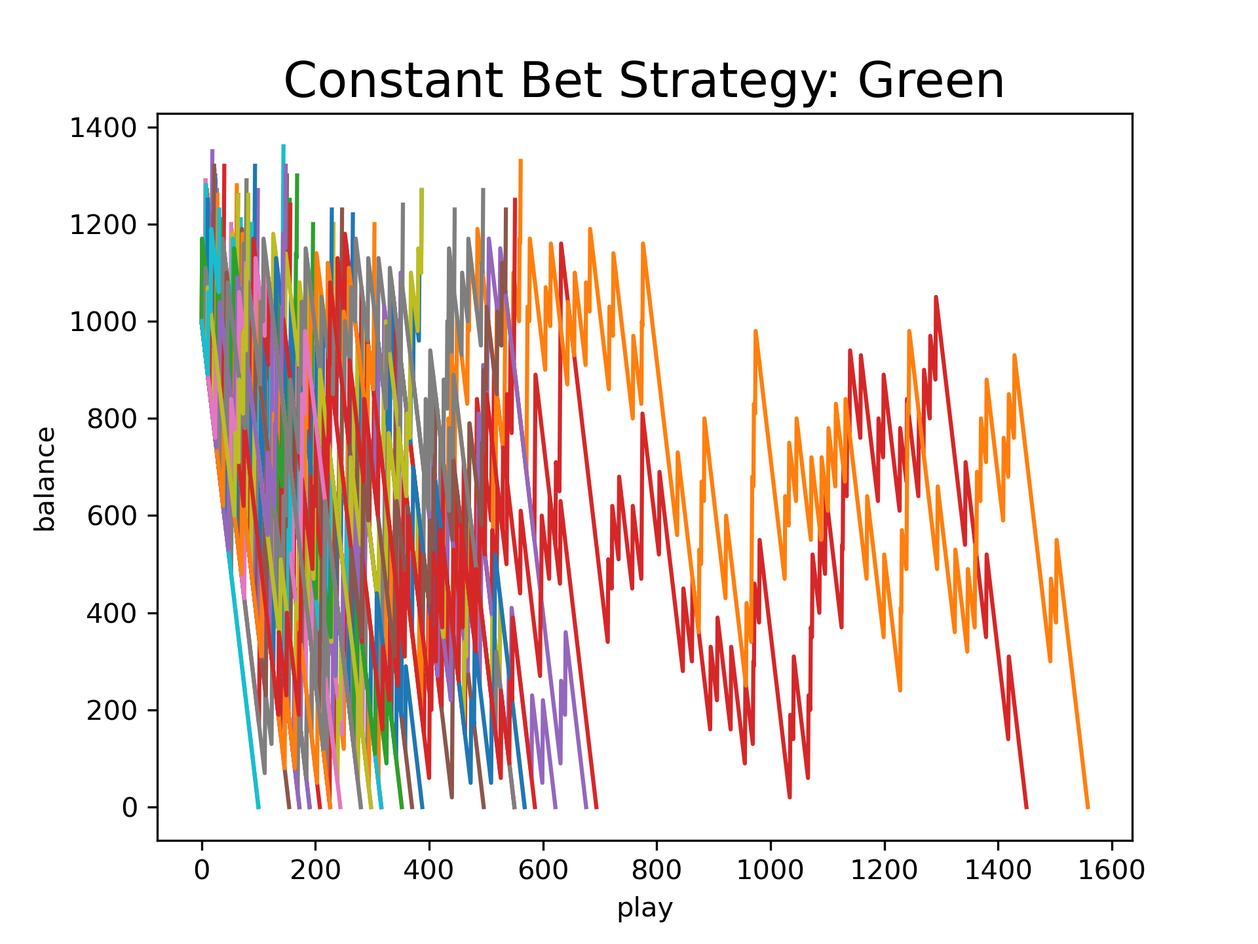
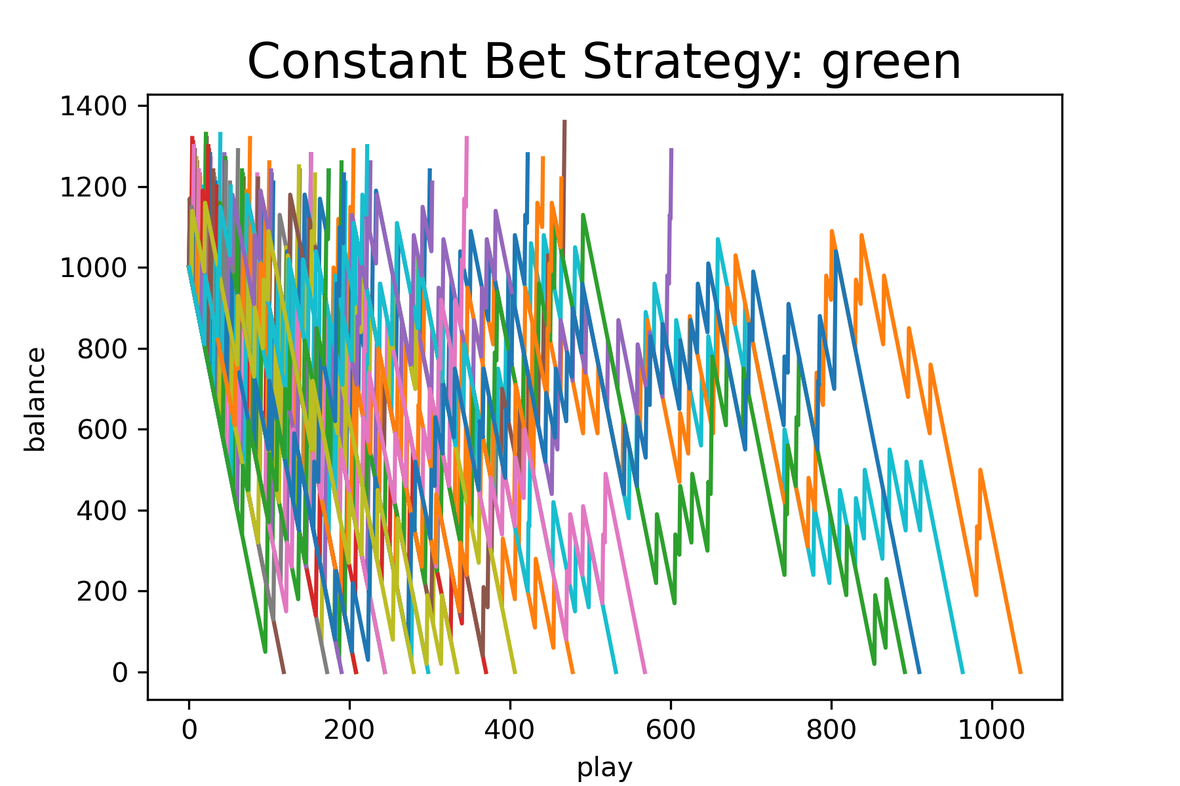
Chapter 9 revision

diff --git a/CSBook/chapters/Ch09/Ch09_StochasticSimulations.html b/CSBook/chapters/Ch09/Ch09_StochasticSimulations.html
@@ -1570,13 +1570,13 @@ ENDFUNCTION</code></pre>
         ELSE
             balance = balance - bet_amount
         ENDIF
-    IF bet_type == 'red'
+    ELIF bet_type == 'red'
         IF spin_color == 'red'
             balance = balance + bet_amount*bet_types['red']
         ELSE
             balance = balance - bet_amount
         ENDIF
-    IF bet_type == 'green'
+    ELIF bet_type == 'green'
         IF spin_color == 'green'
             balance = balance + bet_amount*bet_types['green']
         ELSE
@@ -1613,93 +1613,94 @@ ENDFUNCTION</code></pre>
 <div class="sourceCode" id="fig-Figure9_RouletteWithConstantBetCode"><pre class="sourceCode python code-with-copy"><code class="sourceCode python"><span id="fig-Figure9_RouletteWithConstantBetCode-1"><a href="#fig-Figure9_RouletteWithConstantBetCode-1" aria-hidden="true" tabindex="-1"></a><span class="co">"""</span></span>
 <span id="fig-Figure9_RouletteWithConstantBetCode-2"><a href="#fig-Figure9_RouletteWithConstantBetCode-2" aria-hidden="true" tabindex="-1"></a><span class="co">Program: American Roulette with Constant Bet</span></span>
 <span id="fig-Figure9_RouletteWithConstantBetCode-3"><a href="#fig-Figure9_RouletteWithConstantBetCode-3" aria-hidden="true" tabindex="-1"></a><span class="co">Author: C.D. Wentworth</span></span>
-<span id="fig-Figure9_RouletteWithConstantBetCode-4"><a href="#fig-Figure9_RouletteWithConstantBetCode-4" aria-hidden="true" tabindex="-1"></a><span class="co">Version: 9.1.2022.1</span></span>
+<span id="fig-Figure9_RouletteWithConstantBetCode-4"><a href="#fig-Figure9_RouletteWithConstantBetCode-4" aria-hidden="true" tabindex="-1"></a><span class="co">Version: 4.22.2025.1</span></span>
 <span id="fig-Figure9_RouletteWithConstantBetCode-5"><a href="#fig-Figure9_RouletteWithConstantBetCode-5" aria-hidden="true" tabindex="-1"></a><span class="co">Summary:</span></span>
 <span id="fig-Figure9_RouletteWithConstantBetCode-6"><a href="#fig-Figure9_RouletteWithConstantBetCode-6" aria-hidden="true" tabindex="-1"></a><span class="co">        This program performs a Monte Carlo simulation of the</span></span>
 <span id="fig-Figure9_RouletteWithConstantBetCode-7"><a href="#fig-Figure9_RouletteWithConstantBetCode-7" aria-hidden="true" tabindex="-1"></a><span class="co">        American roulette game using a constant bet strategy based</span></span>
 <span id="fig-Figure9_RouletteWithConstantBetCode-8"><a href="#fig-Figure9_RouletteWithConstantBetCode-8" aria-hidden="true" tabindex="-1"></a><span class="co">        either color choice or specific value choice.</span></span>
 <span id="fig-Figure9_RouletteWithConstantBetCode-9"><a href="#fig-Figure9_RouletteWithConstantBetCode-9" aria-hidden="true" tabindex="-1"></a><span class="co">History:</span></span>
-<span id="fig-Figure9_RouletteWithConstantBetCode-10"><a href="#fig-Figure9_RouletteWithConstantBetCode-10" aria-hidden="true" tabindex="-1"></a><span class="co">    9.1.2022.1: base</span></span>
-<span id="fig-Figure9_RouletteWithConstantBetCode-11"><a href="#fig-Figure9_RouletteWithConstantBetCode-11" aria-hidden="true" tabindex="-1"></a><span class="co">"""</span></span>
-<span id="fig-Figure9_RouletteWithConstantBetCode-12"><a href="#fig-Figure9_RouletteWithConstantBetCode-12" aria-hidden="true" tabindex="-1"></a><span class="im">import</span> matplotlib.pyplot <span class="im">as</span> plt</span>
-<span id="fig-Figure9_RouletteWithConstantBetCode-13"><a href="#fig-Figure9_RouletteWithConstantBetCode-13" aria-hidden="true" tabindex="-1"></a><span class="im">import</span> numpy <span class="im">as</span> np</span>
-<span id="fig-Figure9_RouletteWithConstantBetCode-14"><a href="#fig-Figure9_RouletteWithConstantBetCode-14" aria-hidden="true" tabindex="-1"></a><span class="im">import</span> pandas <span class="im">as</span> pd</span>
-<span id="fig-Figure9_RouletteWithConstantBetCode-15"><a href="#fig-Figure9_RouletteWithConstantBetCode-15" aria-hidden="true" tabindex="-1"></a></span>
-<span id="fig-Figure9_RouletteWithConstantBetCode-16"><a href="#fig-Figure9_RouletteWithConstantBetCode-16" aria-hidden="true" tabindex="-1"></a><span class="kw">def</span> spin(values,colors):</span>
-<span id="fig-Figure9_RouletteWithConstantBetCode-17"><a href="#fig-Figure9_RouletteWithConstantBetCode-17" aria-hidden="true" tabindex="-1"></a><span class="co">#    i = rn.randint(0, 37)</span></span>
-<span id="fig-Figure9_RouletteWithConstantBetCode-18"><a href="#fig-Figure9_RouletteWithConstantBetCode-18" aria-hidden="true" tabindex="-1"></a>    i <span class="op">=</span> rng.integers(low<span class="op">=</span><span class="dv">0</span> , high<span class="op">=</span><span class="dv">37</span> )</span>
-<span id="fig-Figure9_RouletteWithConstantBetCode-19"><a href="#fig-Figure9_RouletteWithConstantBetCode-19" aria-hidden="true" tabindex="-1"></a>    value <span class="op">=</span> values[i]</span>
-<span id="fig-Figure9_RouletteWithConstantBetCode-20"><a href="#fig-Figure9_RouletteWithConstantBetCode-20" aria-hidden="true" tabindex="-1"></a>    color <span class="op">=</span> colors[i]</span>
-<span id="fig-Figure9_RouletteWithConstantBetCode-21"><a href="#fig-Figure9_RouletteWithConstantBetCode-21" aria-hidden="true" tabindex="-1"></a>    <span class="cf">return</span> value, color</span>
-<span id="fig-Figure9_RouletteWithConstantBetCode-22"><a href="#fig-Figure9_RouletteWithConstantBetCode-22" aria-hidden="true" tabindex="-1"></a></span>
-<span id="fig-Figure9_RouletteWithConstantBetCode-23"><a href="#fig-Figure9_RouletteWithConstantBetCode-23" aria-hidden="true" tabindex="-1"></a><span class="kw">def</span> make_a_play(balance, bet_amount, bet_type, bet_types,</span>
-<span id="fig-Figure9_RouletteWithConstantBetCode-24"><a href="#fig-Figure9_RouletteWithConstantBetCode-24" aria-hidden="true" tabindex="-1"></a>                values, colors):</span>
-<span id="fig-Figure9_RouletteWithConstantBetCode-25"><a href="#fig-Figure9_RouletteWithConstantBetCode-25" aria-hidden="true" tabindex="-1"></a>    spin_value, spin_color <span class="op">=</span> spin(values, colors)</span>
-<span id="fig-Figure9_RouletteWithConstantBetCode-26"><a href="#fig-Figure9_RouletteWithConstantBetCode-26" aria-hidden="true" tabindex="-1"></a>    <span class="cf">if</span> bet_type <span class="op">==</span> <span class="st">'black'</span>:</span>
-<span id="fig-Figure9_RouletteWithConstantBetCode-27"><a href="#fig-Figure9_RouletteWithConstantBetCode-27" aria-hidden="true" tabindex="-1"></a>        <span class="cf">if</span> spin_color <span class="op">==</span> <span class="st">'black'</span>:</span>
-<span id="fig-Figure9_RouletteWithConstantBetCode-28"><a href="#fig-Figure9_RouletteWithConstantBetCode-28" aria-hidden="true" tabindex="-1"></a>            balance <span class="op">=</span> balance <span class="op">+</span> bet_amount<span class="op">*</span>bet_types[<span class="st">'black'</span>]</span>
-<span id="fig-Figure9_RouletteWithConstantBetCode-29"><a href="#fig-Figure9_RouletteWithConstantBetCode-29" aria-hidden="true" tabindex="-1"></a>        <span class="cf">else</span>:</span>
-<span id="fig-Figure9_RouletteWithConstantBetCode-30"><a href="#fig-Figure9_RouletteWithConstantBetCode-30" aria-hidden="true" tabindex="-1"></a>            balance <span class="op">=</span> balance <span class="op">-</span> bet_amount</span>
-<span id="fig-Figure9_RouletteWithConstantBetCode-31"><a href="#fig-Figure9_RouletteWithConstantBetCode-31" aria-hidden="true" tabindex="-1"></a>    <span class="cf">if</span> bet_type <span class="op">==</span> <span class="st">'red'</span>:</span>
-<span id="fig-Figure9_RouletteWithConstantBetCode-32"><a href="#fig-Figure9_RouletteWithConstantBetCode-32" aria-hidden="true" tabindex="-1"></a>        <span class="cf">if</span> spin_color <span class="op">==</span> <span class="st">'red'</span>:</span>
-<span id="fig-Figure9_RouletteWithConstantBetCode-33"><a href="#fig-Figure9_RouletteWithConstantBetCode-33" aria-hidden="true" tabindex="-1"></a>            balance <span class="op">=</span> balance <span class="op">+</span> bet_amount<span class="op">*</span>bet_types[<span class="st">'red'</span>]</span>
-<span id="fig-Figure9_RouletteWithConstantBetCode-34"><a href="#fig-Figure9_RouletteWithConstantBetCode-34" aria-hidden="true" tabindex="-1"></a>        <span class="cf">else</span>:</span>
-<span id="fig-Figure9_RouletteWithConstantBetCode-35"><a href="#fig-Figure9_RouletteWithConstantBetCode-35" aria-hidden="true" tabindex="-1"></a>            balance <span class="op">=</span> balance <span class="op">-</span> bet_amount</span>
-<span id="fig-Figure9_RouletteWithConstantBetCode-36"><a href="#fig-Figure9_RouletteWithConstantBetCode-36" aria-hidden="true" tabindex="-1"></a>    <span class="cf">if</span> bet_type <span class="op">==</span> <span class="st">'green'</span>:</span>
-<span id="fig-Figure9_RouletteWithConstantBetCode-37"><a href="#fig-Figure9_RouletteWithConstantBetCode-37" aria-hidden="true" tabindex="-1"></a>        <span class="cf">if</span> spin_color <span class="op">==</span> <span class="st">'green'</span>:</span>
-<span id="fig-Figure9_RouletteWithConstantBetCode-38"><a href="#fig-Figure9_RouletteWithConstantBetCode-38" aria-hidden="true" tabindex="-1"></a>            balance <span class="op">=</span> balance <span class="op">+</span> bet_amount<span class="op">*</span>bet_types[<span class="st">'green'</span>]</span>
-<span id="fig-Figure9_RouletteWithConstantBetCode-39"><a href="#fig-Figure9_RouletteWithConstantBetCode-39" aria-hidden="true" tabindex="-1"></a>        <span class="cf">else</span>:</span>
-<span id="fig-Figure9_RouletteWithConstantBetCode-40"><a href="#fig-Figure9_RouletteWithConstantBetCode-40" aria-hidden="true" tabindex="-1"></a>            balance <span class="op">=</span> balance <span class="op">-</span> bet_amount</span>
-<span id="fig-Figure9_RouletteWithConstantBetCode-41"><a href="#fig-Figure9_RouletteWithConstantBetCode-41" aria-hidden="true" tabindex="-1"></a>    <span class="cf">else</span>:</span>
-<span id="fig-Figure9_RouletteWithConstantBetCode-42"><a href="#fig-Figure9_RouletteWithConstantBetCode-42" aria-hidden="true" tabindex="-1"></a>        <span class="cf">if</span> spin_value <span class="op">==</span> bet_type:</span>
-<span id="fig-Figure9_RouletteWithConstantBetCode-43"><a href="#fig-Figure9_RouletteWithConstantBetCode-43" aria-hidden="true" tabindex="-1"></a>            balance <span class="op">=</span> balance <span class="op">+</span> bet_amount<span class="op">*</span>bet_types[<span class="st">'value'</span>]</span>
-<span id="fig-Figure9_RouletteWithConstantBetCode-44"><a href="#fig-Figure9_RouletteWithConstantBetCode-44" aria-hidden="true" tabindex="-1"></a>        <span class="cf">else</span>:</span>
-<span id="fig-Figure9_RouletteWithConstantBetCode-45"><a href="#fig-Figure9_RouletteWithConstantBetCode-45" aria-hidden="true" tabindex="-1"></a>            balance <span class="op">=</span> balance <span class="op">-</span> bet_amount</span>
-<span id="fig-Figure9_RouletteWithConstantBetCode-46"><a href="#fig-Figure9_RouletteWithConstantBetCode-46" aria-hidden="true" tabindex="-1"></a>    <span class="cf">return</span> balance</span>
-<span id="fig-Figure9_RouletteWithConstantBetCode-47"><a href="#fig-Figure9_RouletteWithConstantBetCode-47" aria-hidden="true" tabindex="-1"></a></span>
-<span id="fig-Figure9_RouletteWithConstantBetCode-48"><a href="#fig-Figure9_RouletteWithConstantBetCode-48" aria-hidden="true" tabindex="-1"></a><span class="kw">def</span> game_constant_bet(balance, stop_balance, bet_amount, bet_type,</span>
-<span id="fig-Figure9_RouletteWithConstantBetCode-49"><a href="#fig-Figure9_RouletteWithConstantBetCode-49" aria-hidden="true" tabindex="-1"></a>                      bet_types, values, colors):</span>
-<span id="fig-Figure9_RouletteWithConstantBetCode-50"><a href="#fig-Figure9_RouletteWithConstantBetCode-50" aria-hidden="true" tabindex="-1"></a>    balance_series <span class="op">=</span> [balance]</span>
-<span id="fig-Figure9_RouletteWithConstantBetCode-51"><a href="#fig-Figure9_RouletteWithConstantBetCode-51" aria-hidden="true" tabindex="-1"></a>    <span class="cf">while</span> (balance <span class="op">&gt;</span> <span class="dv">0</span>) <span class="kw">and</span> (balance <span class="op">&lt;</span> stop_balance):</span>
-<span id="fig-Figure9_RouletteWithConstantBetCode-52"><a href="#fig-Figure9_RouletteWithConstantBetCode-52" aria-hidden="true" tabindex="-1"></a>        balance <span class="op">=</span> make_a_play(balance, bet_amount, bet_type, bet_types,</span>
-<span id="fig-Figure9_RouletteWithConstantBetCode-53"><a href="#fig-Figure9_RouletteWithConstantBetCode-53" aria-hidden="true" tabindex="-1"></a>                  values, colors)</span>
-<span id="fig-Figure9_RouletteWithConstantBetCode-54"><a href="#fig-Figure9_RouletteWithConstantBetCode-54" aria-hidden="true" tabindex="-1"></a>        balance_series.append(balance)</span>
-<span id="fig-Figure9_RouletteWithConstantBetCode-55"><a href="#fig-Figure9_RouletteWithConstantBetCode-55" aria-hidden="true" tabindex="-1"></a>    <span class="cf">return</span> balance_series</span>
-<span id="fig-Figure9_RouletteWithConstantBetCode-56"><a href="#fig-Figure9_RouletteWithConstantBetCode-56" aria-hidden="true" tabindex="-1"></a></span>
+<span id="fig-Figure9_RouletteWithConstantBetCode-10"><a href="#fig-Figure9_RouletteWithConstantBetCode-10" aria-hidden="true" tabindex="-1"></a><span class="co">    9.01.2022.1: base</span></span>
+<span id="fig-Figure9_RouletteWithConstantBetCode-11"><a href="#fig-Figure9_RouletteWithConstantBetCode-11" aria-hidden="true" tabindex="-1"></a><span class="co">    4.22.2025.1: corrected make_a_play function</span></span>
+<span id="fig-Figure9_RouletteWithConstantBetCode-12"><a href="#fig-Figure9_RouletteWithConstantBetCode-12" aria-hidden="true" tabindex="-1"></a><span class="co">"""</span></span>
+<span id="fig-Figure9_RouletteWithConstantBetCode-13"><a href="#fig-Figure9_RouletteWithConstantBetCode-13" aria-hidden="true" tabindex="-1"></a><span class="im">import</span> matplotlib.pyplot <span class="im">as</span> plt</span>
+<span id="fig-Figure9_RouletteWithConstantBetCode-14"><a href="#fig-Figure9_RouletteWithConstantBetCode-14" aria-hidden="true" tabindex="-1"></a><span class="im">import</span> numpy <span class="im">as</span> np</span>
+<span id="fig-Figure9_RouletteWithConstantBetCode-15"><a href="#fig-Figure9_RouletteWithConstantBetCode-15" aria-hidden="true" tabindex="-1"></a><span class="im">import</span> pandas <span class="im">as</span> pd</span>
+<span id="fig-Figure9_RouletteWithConstantBetCode-16"><a href="#fig-Figure9_RouletteWithConstantBetCode-16" aria-hidden="true" tabindex="-1"></a></span>
+<span id="fig-Figure9_RouletteWithConstantBetCode-17"><a href="#fig-Figure9_RouletteWithConstantBetCode-17" aria-hidden="true" tabindex="-1"></a><span class="kw">def</span> spin(values,colors):</span>
+<span id="fig-Figure9_RouletteWithConstantBetCode-18"><a href="#fig-Figure9_RouletteWithConstantBetCode-18" aria-hidden="true" tabindex="-1"></a><span class="co">#    i = rn.randint(0, 37)</span></span>
+<span id="fig-Figure9_RouletteWithConstantBetCode-19"><a href="#fig-Figure9_RouletteWithConstantBetCode-19" aria-hidden="true" tabindex="-1"></a>    i <span class="op">=</span> rng.integers(low<span class="op">=</span><span class="dv">0</span> , high<span class="op">=</span><span class="dv">37</span> )</span>
+<span id="fig-Figure9_RouletteWithConstantBetCode-20"><a href="#fig-Figure9_RouletteWithConstantBetCode-20" aria-hidden="true" tabindex="-1"></a>    value <span class="op">=</span> values[i]</span>
+<span id="fig-Figure9_RouletteWithConstantBetCode-21"><a href="#fig-Figure9_RouletteWithConstantBetCode-21" aria-hidden="true" tabindex="-1"></a>    color <span class="op">=</span> colors[i]</span>
+<span id="fig-Figure9_RouletteWithConstantBetCode-22"><a href="#fig-Figure9_RouletteWithConstantBetCode-22" aria-hidden="true" tabindex="-1"></a>    <span class="cf">return</span> value, color</span>
+<span id="fig-Figure9_RouletteWithConstantBetCode-23"><a href="#fig-Figure9_RouletteWithConstantBetCode-23" aria-hidden="true" tabindex="-1"></a></span>
+<span id="fig-Figure9_RouletteWithConstantBetCode-24"><a href="#fig-Figure9_RouletteWithConstantBetCode-24" aria-hidden="true" tabindex="-1"></a><span class="kw">def</span> make_a_play(balance, bet_amount, bet_type, bet_types,</span>
+<span id="fig-Figure9_RouletteWithConstantBetCode-25"><a href="#fig-Figure9_RouletteWithConstantBetCode-25" aria-hidden="true" tabindex="-1"></a>                values, colors):</span>
+<span id="fig-Figure9_RouletteWithConstantBetCode-26"><a href="#fig-Figure9_RouletteWithConstantBetCode-26" aria-hidden="true" tabindex="-1"></a>    spin_value, spin_color <span class="op">=</span> spin(values, colors)</span>
+<span id="fig-Figure9_RouletteWithConstantBetCode-27"><a href="#fig-Figure9_RouletteWithConstantBetCode-27" aria-hidden="true" tabindex="-1"></a>    <span class="cf">if</span> bet_type <span class="op">==</span> <span class="st">'black'</span>:</span>
+<span id="fig-Figure9_RouletteWithConstantBetCode-28"><a href="#fig-Figure9_RouletteWithConstantBetCode-28" aria-hidden="true" tabindex="-1"></a>        <span class="cf">if</span> spin_color <span class="op">==</span> <span class="st">'black'</span>:</span>
+<span id="fig-Figure9_RouletteWithConstantBetCode-29"><a href="#fig-Figure9_RouletteWithConstantBetCode-29" aria-hidden="true" tabindex="-1"></a>            balance <span class="op">=</span> balance <span class="op">+</span> bet_amount<span class="op">*</span>bet_types[<span class="st">'black'</span>]</span>
+<span id="fig-Figure9_RouletteWithConstantBetCode-30"><a href="#fig-Figure9_RouletteWithConstantBetCode-30" aria-hidden="true" tabindex="-1"></a>        <span class="cf">else</span>:</span>
+<span id="fig-Figure9_RouletteWithConstantBetCode-31"><a href="#fig-Figure9_RouletteWithConstantBetCode-31" aria-hidden="true" tabindex="-1"></a>            balance <span class="op">=</span> balance <span class="op">-</span> bet_amount</span>
+<span id="fig-Figure9_RouletteWithConstantBetCode-32"><a href="#fig-Figure9_RouletteWithConstantBetCode-32" aria-hidden="true" tabindex="-1"></a>    <span class="cf">elif</span> bet_type <span class="op">==</span> <span class="st">'red'</span>:</span>
+<span id="fig-Figure9_RouletteWithConstantBetCode-33"><a href="#fig-Figure9_RouletteWithConstantBetCode-33" aria-hidden="true" tabindex="-1"></a>        <span class="cf">if</span> spin_color <span class="op">==</span> <span class="st">'red'</span>:</span>
+<span id="fig-Figure9_RouletteWithConstantBetCode-34"><a href="#fig-Figure9_RouletteWithConstantBetCode-34" aria-hidden="true" tabindex="-1"></a>            balance <span class="op">=</span> balance <span class="op">+</span> bet_amount<span class="op">*</span>bet_types[<span class="st">'red'</span>]</span>
+<span id="fig-Figure9_RouletteWithConstantBetCode-35"><a href="#fig-Figure9_RouletteWithConstantBetCode-35" aria-hidden="true" tabindex="-1"></a>        <span class="cf">else</span>:</span>
+<span id="fig-Figure9_RouletteWithConstantBetCode-36"><a href="#fig-Figure9_RouletteWithConstantBetCode-36" aria-hidden="true" tabindex="-1"></a>            balance <span class="op">=</span> balance <span class="op">-</span> bet_amount</span>
+<span id="fig-Figure9_RouletteWithConstantBetCode-37"><a href="#fig-Figure9_RouletteWithConstantBetCode-37" aria-hidden="true" tabindex="-1"></a>    <span class="cf">elif</span> bet_type <span class="op">==</span> <span class="st">'green'</span>:</span>
+<span id="fig-Figure9_RouletteWithConstantBetCode-38"><a href="#fig-Figure9_RouletteWithConstantBetCode-38" aria-hidden="true" tabindex="-1"></a>        <span class="cf">if</span> spin_color <span class="op">==</span> <span class="st">'green'</span>:</span>
+<span id="fig-Figure9_RouletteWithConstantBetCode-39"><a href="#fig-Figure9_RouletteWithConstantBetCode-39" aria-hidden="true" tabindex="-1"></a>            balance <span class="op">=</span> balance <span class="op">+</span> bet_amount<span class="op">*</span>bet_types[<span class="st">'green'</span>]</span>
+<span id="fig-Figure9_RouletteWithConstantBetCode-40"><a href="#fig-Figure9_RouletteWithConstantBetCode-40" aria-hidden="true" tabindex="-1"></a>        <span class="cf">else</span>:</span>
+<span id="fig-Figure9_RouletteWithConstantBetCode-41"><a href="#fig-Figure9_RouletteWithConstantBetCode-41" aria-hidden="true" tabindex="-1"></a>            balance <span class="op">=</span> balance <span class="op">-</span> bet_amount</span>
+<span id="fig-Figure9_RouletteWithConstantBetCode-42"><a href="#fig-Figure9_RouletteWithConstantBetCode-42" aria-hidden="true" tabindex="-1"></a>    <span class="cf">else</span>:</span>
+<span id="fig-Figure9_RouletteWithConstantBetCode-43"><a href="#fig-Figure9_RouletteWithConstantBetCode-43" aria-hidden="true" tabindex="-1"></a>        <span class="cf">if</span> spin_value <span class="op">==</span> bet_type:</span>
+<span id="fig-Figure9_RouletteWithConstantBetCode-44"><a href="#fig-Figure9_RouletteWithConstantBetCode-44" aria-hidden="true" tabindex="-1"></a>            balance <span class="op">=</span> balance <span class="op">+</span> bet_amount<span class="op">*</span>bet_types[<span class="st">'value'</span>]</span>
+<span id="fig-Figure9_RouletteWithConstantBetCode-45"><a href="#fig-Figure9_RouletteWithConstantBetCode-45" aria-hidden="true" tabindex="-1"></a>        <span class="cf">else</span>:</span>
+<span id="fig-Figure9_RouletteWithConstantBetCode-46"><a href="#fig-Figure9_RouletteWithConstantBetCode-46" aria-hidden="true" tabindex="-1"></a>            balance <span class="op">=</span> balance <span class="op">-</span> bet_amount</span>
+<span id="fig-Figure9_RouletteWithConstantBetCode-47"><a href="#fig-Figure9_RouletteWithConstantBetCode-47" aria-hidden="true" tabindex="-1"></a>    <span class="cf">return</span> balance</span>
+<span id="fig-Figure9_RouletteWithConstantBetCode-48"><a href="#fig-Figure9_RouletteWithConstantBetCode-48" aria-hidden="true" tabindex="-1"></a></span>
+<span id="fig-Figure9_RouletteWithConstantBetCode-49"><a href="#fig-Figure9_RouletteWithConstantBetCode-49" aria-hidden="true" tabindex="-1"></a><span class="kw">def</span> game_constant_bet(balance, stop_balance, bet_amount, bet_type,</span>
+<span id="fig-Figure9_RouletteWithConstantBetCode-50"><a href="#fig-Figure9_RouletteWithConstantBetCode-50" aria-hidden="true" tabindex="-1"></a>                      bet_types, values, colors):</span>
+<span id="fig-Figure9_RouletteWithConstantBetCode-51"><a href="#fig-Figure9_RouletteWithConstantBetCode-51" aria-hidden="true" tabindex="-1"></a>    balance_series <span class="op">=</span> [balance]</span>
+<span id="fig-Figure9_RouletteWithConstantBetCode-52"><a href="#fig-Figure9_RouletteWithConstantBetCode-52" aria-hidden="true" tabindex="-1"></a>    <span class="cf">while</span> (balance <span class="op">&gt;</span> <span class="dv">0</span>) <span class="kw">and</span> (balance <span class="op">&lt;</span> stop_balance):</span>
+<span id="fig-Figure9_RouletteWithConstantBetCode-53"><a href="#fig-Figure9_RouletteWithConstantBetCode-53" aria-hidden="true" tabindex="-1"></a>        balance <span class="op">=</span> make_a_play(balance, bet_amount, bet_type, bet_types,</span>
+<span id="fig-Figure9_RouletteWithConstantBetCode-54"><a href="#fig-Figure9_RouletteWithConstantBetCode-54" aria-hidden="true" tabindex="-1"></a>                  values, colors)</span>
+<span id="fig-Figure9_RouletteWithConstantBetCode-55"><a href="#fig-Figure9_RouletteWithConstantBetCode-55" aria-hidden="true" tabindex="-1"></a>        balance_series.append(balance)</span>
+<span id="fig-Figure9_RouletteWithConstantBetCode-56"><a href="#fig-Figure9_RouletteWithConstantBetCode-56" aria-hidden="true" tabindex="-1"></a>    <span class="cf">return</span> balance_series</span>
 <span id="fig-Figure9_RouletteWithConstantBetCode-57"><a href="#fig-Figure9_RouletteWithConstantBetCode-57" aria-hidden="true" tabindex="-1"></a></span>
-<span id="fig-Figure9_RouletteWithConstantBetCode-58"><a href="#fig-Figure9_RouletteWithConstantBetCode-58" aria-hidden="true" tabindex="-1"></a><span class="co"># Main Program</span></span>
-<span id="fig-Figure9_RouletteWithConstantBetCode-59"><a href="#fig-Figure9_RouletteWithConstantBetCode-59" aria-hidden="true" tabindex="-1"></a><span class="co"># Initialize gambler's data</span></span>
-<span id="fig-Figure9_RouletteWithConstantBetCode-60"><a href="#fig-Figure9_RouletteWithConstantBetCode-60" aria-hidden="true" tabindex="-1"></a>balance <span class="op">=</span> <span class="dv">1000</span></span>
-<span id="fig-Figure9_RouletteWithConstantBetCode-61"><a href="#fig-Figure9_RouletteWithConstantBetCode-61" aria-hidden="true" tabindex="-1"></a>stop_balance <span class="op">=</span> <span class="dv">1200</span></span>
-<span id="fig-Figure9_RouletteWithConstantBetCode-62"><a href="#fig-Figure9_RouletteWithConstantBetCode-62" aria-hidden="true" tabindex="-1"></a>bet_amount <span class="op">=</span> <span class="dv">10</span></span>
-<span id="fig-Figure9_RouletteWithConstantBetCode-63"><a href="#fig-Figure9_RouletteWithConstantBetCode-63" aria-hidden="true" tabindex="-1"></a>bet_type <span class="op">=</span> <span class="st">'green'</span></span>
-<span id="fig-Figure9_RouletteWithConstantBetCode-64"><a href="#fig-Figure9_RouletteWithConstantBetCode-64" aria-hidden="true" tabindex="-1"></a>number_of_games <span class="op">=</span> <span class="dv">100</span></span>
-<span id="fig-Figure9_RouletteWithConstantBetCode-65"><a href="#fig-Figure9_RouletteWithConstantBetCode-65" aria-hidden="true" tabindex="-1"></a></span>
-<span id="fig-Figure9_RouletteWithConstantBetCode-66"><a href="#fig-Figure9_RouletteWithConstantBetCode-66" aria-hidden="true" tabindex="-1"></a><span class="co"># Set up the numpy random number generator</span></span>
-<span id="fig-Figure9_RouletteWithConstantBetCode-67"><a href="#fig-Figure9_RouletteWithConstantBetCode-67" aria-hidden="true" tabindex="-1"></a>rng <span class="op">=</span> np.random.default_rng(<span class="dv">314159</span>)</span>
-<span id="fig-Figure9_RouletteWithConstantBetCode-68"><a href="#fig-Figure9_RouletteWithConstantBetCode-68" aria-hidden="true" tabindex="-1"></a></span>
-<span id="fig-Figure9_RouletteWithConstantBetCode-69"><a href="#fig-Figure9_RouletteWithConstantBetCode-69" aria-hidden="true" tabindex="-1"></a><span class="co"># Initialize the bet type payout</span></span>
-<span id="fig-Figure9_RouletteWithConstantBetCode-70"><a href="#fig-Figure9_RouletteWithConstantBetCode-70" aria-hidden="true" tabindex="-1"></a>bet_types <span class="op">=</span> {<span class="st">'black'</span>: <span class="dv">1</span>, <span class="st">'red'</span>: <span class="dv">1</span>, <span class="st">'green'</span>: <span class="dv">17</span>, <span class="st">'value'</span>: <span class="dv">35</span>  }</span>
-<span id="fig-Figure9_RouletteWithConstantBetCode-71"><a href="#fig-Figure9_RouletteWithConstantBetCode-71" aria-hidden="true" tabindex="-1"></a></span>
-<span id="fig-Figure9_RouletteWithConstantBetCode-72"><a href="#fig-Figure9_RouletteWithConstantBetCode-72" aria-hidden="true" tabindex="-1"></a><span class="co"># Read in the wheel data</span></span>
-<span id="fig-Figure9_RouletteWithConstantBetCode-73"><a href="#fig-Figure9_RouletteWithConstantBetCode-73" aria-hidden="true" tabindex="-1"></a>df <span class="op">=</span> pd.read_csv(<span class="st">'wheel.txt'</span>, sep<span class="op">=</span><span class="st">'</span><span class="ch">\t</span><span class="st">'</span>, header<span class="op">=</span><span class="dv">1</span>,</span>
-<span id="fig-Figure9_RouletteWithConstantBetCode-74"><a href="#fig-Figure9_RouletteWithConstantBetCode-74" aria-hidden="true" tabindex="-1"></a>       dtype<span class="op">=</span>{<span class="st">'index'</span>:<span class="bu">int</span>, <span class="st">'value'</span>:<span class="st">'string'</span>, <span class="st">'color'</span>:<span class="st">'string'</span>})</span>
-<span id="fig-Figure9_RouletteWithConstantBetCode-75"><a href="#fig-Figure9_RouletteWithConstantBetCode-75" aria-hidden="true" tabindex="-1"></a></span>
-<span id="fig-Figure9_RouletteWithConstantBetCode-76"><a href="#fig-Figure9_RouletteWithConstantBetCode-76" aria-hidden="true" tabindex="-1"></a><span class="co"># Convert pandas columns to tuples</span></span>
-<span id="fig-Figure9_RouletteWithConstantBetCode-77"><a href="#fig-Figure9_RouletteWithConstantBetCode-77" aria-hidden="true" tabindex="-1"></a>values <span class="op">=</span> <span class="bu">tuple</span>(df[<span class="st">'value'</span>].tolist())</span>
-<span id="fig-Figure9_RouletteWithConstantBetCode-78"><a href="#fig-Figure9_RouletteWithConstantBetCode-78" aria-hidden="true" tabindex="-1"></a>colors <span class="op">=</span> <span class="bu">tuple</span>(df[<span class="st">'color'</span>].tolist())</span>
-<span id="fig-Figure9_RouletteWithConstantBetCode-79"><a href="#fig-Figure9_RouletteWithConstantBetCode-79" aria-hidden="true" tabindex="-1"></a></span>
-<span id="fig-Figure9_RouletteWithConstantBetCode-80"><a href="#fig-Figure9_RouletteWithConstantBetCode-80" aria-hidden="true" tabindex="-1"></a><span class="cf">for</span> g <span class="kw">in</span> <span class="bu">range</span>(number_of_games):</span>
-<span id="fig-Figure9_RouletteWithConstantBetCode-81"><a href="#fig-Figure9_RouletteWithConstantBetCode-81" aria-hidden="true" tabindex="-1"></a>    balance_series <span class="op">=</span> game_constant_bet(balance, stop_balance,</span>
-<span id="fig-Figure9_RouletteWithConstantBetCode-82"><a href="#fig-Figure9_RouletteWithConstantBetCode-82" aria-hidden="true" tabindex="-1"></a>                                       bet_amount, bet_type,</span>
-<span id="fig-Figure9_RouletteWithConstantBetCode-83"><a href="#fig-Figure9_RouletteWithConstantBetCode-83" aria-hidden="true" tabindex="-1"></a>                                       bet_types, values, colors)</span>
-<span id="fig-Figure9_RouletteWithConstantBetCode-84"><a href="#fig-Figure9_RouletteWithConstantBetCode-84" aria-hidden="true" tabindex="-1"></a>    plt.plot(balance_series)</span>
-<span id="fig-Figure9_RouletteWithConstantBetCode-85"><a href="#fig-Figure9_RouletteWithConstantBetCode-85" aria-hidden="true" tabindex="-1"></a>plt.xlabel(<span class="st">'play'</span>)</span>
-<span id="fig-Figure9_RouletteWithConstantBetCode-86"><a href="#fig-Figure9_RouletteWithConstantBetCode-86" aria-hidden="true" tabindex="-1"></a>plt.ylabel(<span class="st">'balance'</span>)</span>
-<span id="fig-Figure9_RouletteWithConstantBetCode-87"><a href="#fig-Figure9_RouletteWithConstantBetCode-87" aria-hidden="true" tabindex="-1"></a>title_string <span class="op">=</span> <span class="st">'Constant Bet Strategy: '</span> <span class="op">+</span> bet_type</span>
-<span id="fig-Figure9_RouletteWithConstantBetCode-88"><a href="#fig-Figure9_RouletteWithConstantBetCode-88" aria-hidden="true" tabindex="-1"></a>plt.title(title_string, fontsize<span class="op">=</span><span class="dv">18</span>)</span>
-<span id="fig-Figure9_RouletteWithConstantBetCode-89"><a href="#fig-Figure9_RouletteWithConstantBetCode-89" aria-hidden="true" tabindex="-1"></a>plt.savefig(<span class="st">'roulette_constantBet_value15_1200.png'</span>, dpi<span class="op">=</span><span class="dv">300</span>)</span>
-<span id="fig-Figure9_RouletteWithConstantBetCode-90"><a href="#fig-Figure9_RouletteWithConstantBetCode-90" aria-hidden="true" tabindex="-1"></a>plt.show()</span></code><button title="Copy to Clipboard" class="code-copy-button"><i class="bi"></i></button></pre></div>
+<span id="fig-Figure9_RouletteWithConstantBetCode-58"><a href="#fig-Figure9_RouletteWithConstantBetCode-58" aria-hidden="true" tabindex="-1"></a></span>
+<span id="fig-Figure9_RouletteWithConstantBetCode-59"><a href="#fig-Figure9_RouletteWithConstantBetCode-59" aria-hidden="true" tabindex="-1"></a><span class="co"># Main Program</span></span>
+<span id="fig-Figure9_RouletteWithConstantBetCode-60"><a href="#fig-Figure9_RouletteWithConstantBetCode-60" aria-hidden="true" tabindex="-1"></a><span class="co"># Initialize gambler's data</span></span>
+<span id="fig-Figure9_RouletteWithConstantBetCode-61"><a href="#fig-Figure9_RouletteWithConstantBetCode-61" aria-hidden="true" tabindex="-1"></a>balance <span class="op">=</span> <span class="dv">1000</span></span>
+<span id="fig-Figure9_RouletteWithConstantBetCode-62"><a href="#fig-Figure9_RouletteWithConstantBetCode-62" aria-hidden="true" tabindex="-1"></a>stop_balance <span class="op">=</span> <span class="dv">1200</span></span>
+<span id="fig-Figure9_RouletteWithConstantBetCode-63"><a href="#fig-Figure9_RouletteWithConstantBetCode-63" aria-hidden="true" tabindex="-1"></a>bet_amount <span class="op">=</span> <span class="dv">10</span></span>
+<span id="fig-Figure9_RouletteWithConstantBetCode-64"><a href="#fig-Figure9_RouletteWithConstantBetCode-64" aria-hidden="true" tabindex="-1"></a>bet_type <span class="op">=</span> <span class="st">'15'</span></span>
+<span id="fig-Figure9_RouletteWithConstantBetCode-65"><a href="#fig-Figure9_RouletteWithConstantBetCode-65" aria-hidden="true" tabindex="-1"></a>number_of_games <span class="op">=</span> <span class="dv">100</span></span>
+<span id="fig-Figure9_RouletteWithConstantBetCode-66"><a href="#fig-Figure9_RouletteWithConstantBetCode-66" aria-hidden="true" tabindex="-1"></a></span>
+<span id="fig-Figure9_RouletteWithConstantBetCode-67"><a href="#fig-Figure9_RouletteWithConstantBetCode-67" aria-hidden="true" tabindex="-1"></a><span class="co"># Set up the numpy random number generator</span></span>
+<span id="fig-Figure9_RouletteWithConstantBetCode-68"><a href="#fig-Figure9_RouletteWithConstantBetCode-68" aria-hidden="true" tabindex="-1"></a>rng <span class="op">=</span> np.random.default_rng(<span class="dv">314159</span>)</span>
+<span id="fig-Figure9_RouletteWithConstantBetCode-69"><a href="#fig-Figure9_RouletteWithConstantBetCode-69" aria-hidden="true" tabindex="-1"></a></span>
+<span id="fig-Figure9_RouletteWithConstantBetCode-70"><a href="#fig-Figure9_RouletteWithConstantBetCode-70" aria-hidden="true" tabindex="-1"></a><span class="co"># Initialize the bet type payout</span></span>
+<span id="fig-Figure9_RouletteWithConstantBetCode-71"><a href="#fig-Figure9_RouletteWithConstantBetCode-71" aria-hidden="true" tabindex="-1"></a>bet_types <span class="op">=</span> {<span class="st">'black'</span>: <span class="dv">1</span>, <span class="st">'red'</span>: <span class="dv">1</span>, <span class="st">'green'</span>: <span class="dv">17</span>, <span class="st">'value'</span>: <span class="dv">35</span>  }</span>
+<span id="fig-Figure9_RouletteWithConstantBetCode-72"><a href="#fig-Figure9_RouletteWithConstantBetCode-72" aria-hidden="true" tabindex="-1"></a></span>
+<span id="fig-Figure9_RouletteWithConstantBetCode-73"><a href="#fig-Figure9_RouletteWithConstantBetCode-73" aria-hidden="true" tabindex="-1"></a><span class="co"># Read in the wheel data</span></span>
+<span id="fig-Figure9_RouletteWithConstantBetCode-74"><a href="#fig-Figure9_RouletteWithConstantBetCode-74" aria-hidden="true" tabindex="-1"></a>df <span class="op">=</span> pd.read_csv(<span class="st">'wheel.txt'</span>, sep<span class="op">=</span><span class="st">'</span><span class="ch">\t</span><span class="st">'</span>, header<span class="op">=</span><span class="dv">1</span>,</span>
+<span id="fig-Figure9_RouletteWithConstantBetCode-75"><a href="#fig-Figure9_RouletteWithConstantBetCode-75" aria-hidden="true" tabindex="-1"></a>       dtype<span class="op">=</span>{<span class="st">'index'</span>:<span class="bu">int</span>, <span class="st">'value'</span>:<span class="st">'string'</span>, <span class="st">'color'</span>:<span class="st">'string'</span>})</span>
+<span id="fig-Figure9_RouletteWithConstantBetCode-76"><a href="#fig-Figure9_RouletteWithConstantBetCode-76" aria-hidden="true" tabindex="-1"></a></span>
+<span id="fig-Figure9_RouletteWithConstantBetCode-77"><a href="#fig-Figure9_RouletteWithConstantBetCode-77" aria-hidden="true" tabindex="-1"></a><span class="co"># Convert pandas columns to tuples</span></span>
+<span id="fig-Figure9_RouletteWithConstantBetCode-78"><a href="#fig-Figure9_RouletteWithConstantBetCode-78" aria-hidden="true" tabindex="-1"></a>values <span class="op">=</span> <span class="bu">tuple</span>(df[<span class="st">'value'</span>].tolist())</span>
+<span id="fig-Figure9_RouletteWithConstantBetCode-79"><a href="#fig-Figure9_RouletteWithConstantBetCode-79" aria-hidden="true" tabindex="-1"></a>colors <span class="op">=</span> <span class="bu">tuple</span>(df[<span class="st">'color'</span>].tolist())</span>
+<span id="fig-Figure9_RouletteWithConstantBetCode-80"><a href="#fig-Figure9_RouletteWithConstantBetCode-80" aria-hidden="true" tabindex="-1"></a></span>
+<span id="fig-Figure9_RouletteWithConstantBetCode-81"><a href="#fig-Figure9_RouletteWithConstantBetCode-81" aria-hidden="true" tabindex="-1"></a><span class="cf">for</span> g <span class="kw">in</span> <span class="bu">range</span>(number_of_games):</span>
+<span id="fig-Figure9_RouletteWithConstantBetCode-82"><a href="#fig-Figure9_RouletteWithConstantBetCode-82" aria-hidden="true" tabindex="-1"></a>    balance_series <span class="op">=</span> game_constant_bet(balance, stop_balance,</span>
+<span id="fig-Figure9_RouletteWithConstantBetCode-83"><a href="#fig-Figure9_RouletteWithConstantBetCode-83" aria-hidden="true" tabindex="-1"></a>                                       bet_amount, bet_type,</span>
+<span id="fig-Figure9_RouletteWithConstantBetCode-84"><a href="#fig-Figure9_RouletteWithConstantBetCode-84" aria-hidden="true" tabindex="-1"></a>                                       bet_types, values, colors)</span>
+<span id="fig-Figure9_RouletteWithConstantBetCode-85"><a href="#fig-Figure9_RouletteWithConstantBetCode-85" aria-hidden="true" tabindex="-1"></a>    plt.plot(balance_series)</span>
+<span id="fig-Figure9_RouletteWithConstantBetCode-86"><a href="#fig-Figure9_RouletteWithConstantBetCode-86" aria-hidden="true" tabindex="-1"></a>plt.xlabel(<span class="st">'play'</span>)</span>
+<span id="fig-Figure9_RouletteWithConstantBetCode-87"><a href="#fig-Figure9_RouletteWithConstantBetCode-87" aria-hidden="true" tabindex="-1"></a>plt.ylabel(<span class="st">'balance'</span>)</span>
+<span id="fig-Figure9_RouletteWithConstantBetCode-88"><a href="#fig-Figure9_RouletteWithConstantBetCode-88" aria-hidden="true" tabindex="-1"></a>title_string <span class="op">=</span> <span class="st">'Constant Bet Strategy: '</span> <span class="op">+</span> bet_type</span>
+<span id="fig-Figure9_RouletteWithConstantBetCode-89"><a href="#fig-Figure9_RouletteWithConstantBetCode-89" aria-hidden="true" tabindex="-1"></a>plt.title(title_string, fontsize<span class="op">=</span><span class="dv">18</span>)</span>
+<span id="fig-Figure9_RouletteWithConstantBetCode-90"><a href="#fig-Figure9_RouletteWithConstantBetCode-90" aria-hidden="true" tabindex="-1"></a>plt.savefig(<span class="st">'roulette_constantBet_value15_1200.png'</span>, dpi<span class="op">=</span><span class="dv">300</span>)</span>
+<span id="fig-Figure9_RouletteWithConstantBetCode-91"><a href="#fig-Figure9_RouletteWithConstantBetCode-91" aria-hidden="true" tabindex="-1"></a>plt.show()</span></code><button title="Copy to Clipboard" class="code-copy-button"><i class="bi"></i></button></pre></div>
 </div>
 <figcaption class="quarto-float-caption-bottom quarto-float-caption quarto-float-fig" id="fig-Figure9_RouletteWithConstantBetCode-caption-0ceaefa1-69ba-4598-a22c-09a6ac19f8ca">
 Figure&nbsp;14: Python implementation of the American Roulette with Constant Bet simulation.
@@ -1851,7 +1852,7 @@ Figure&nbsp;15: Short program to test the spin function.
 stop_balance = 1200
 bet_amount = 10
 number_of_games = 100</code></pre>
-<p>We will run the simulation for the following bet types: ‘red’, ‘green’, ‘15’, and compare the plots of balance as a function of play. <a href="#fig-RouletteSimRed" class="quarto-xref">Figure&nbsp;<span>16</span></a> – <a href="#fig-RouletteSimValue15" class="quarto-xref">Figure&nbsp;<span>18</span></a> show the results of these simulations. Each simulation is for 100 games. Based on this data, we can say that if you want to make any money on this game with the constant bet strategy you must bet on one of higher payout choices (green or a specific value). Be forewarned though; you will also have a significant chance of quickly losing your purse.</p>
+<p>We will run the simulation for the following bet types: ‘red’, ‘green’, ‘15’, and compare the plots of balance as a function of play. <a href="#fig-RouletteSimRed" class="quarto-xref">Figure&nbsp;<span>16</span></a> – <a href="#fig-RouletteSimValue15" class="quarto-xref">Figure&nbsp;<span>18</span></a> show the results of these simulations. Each simulation is for 100 games. Based on this data, a constant bet on red allows one to play longer before running out of money than the other bet types. A more thorough analysis that explores bet size effects and calculates the actual probability of reaching 1200 should be done before recommending the best version of the constant bet strategy.</p>
 <div id="fig-RouletteSimRed" class="quarto-float quarto-figure quarto-figure-center anchored">
 <figure class="quarto-float quarto-float-fig figure">
 <div aria-describedby="fig-RouletteSimRed-caption-0ceaefa1-69ba-4598-a22c-09a6ac19f8ca">

diff --git a/CSBook/index.html b/CSBook/index.html
@@ -7,7 +7,7 @@
 <meta name="viewport" content="width=device-width, initial-scale=1.0, user-scalable=yes">
 
 <meta name="author" content="Christopher D. Wentworth">
-<meta name="dcterms.date" content="2025-03-15">
+<meta name="dcterms.date" content="2025-04-15">
 
 <title>Computational Science</title>
 <style>
@@ -269,7 +269,7 @@ ul.task-list li input[type="checkbox"] {
     <div>
     <div class="quarto-title-meta-heading">Published</div>
     <div class="quarto-title-meta-contents">
-      <p class="date">March 15, 2025</p>
+      <p class="date">April 15, 2025</p>
     </div>
   </div>
   
